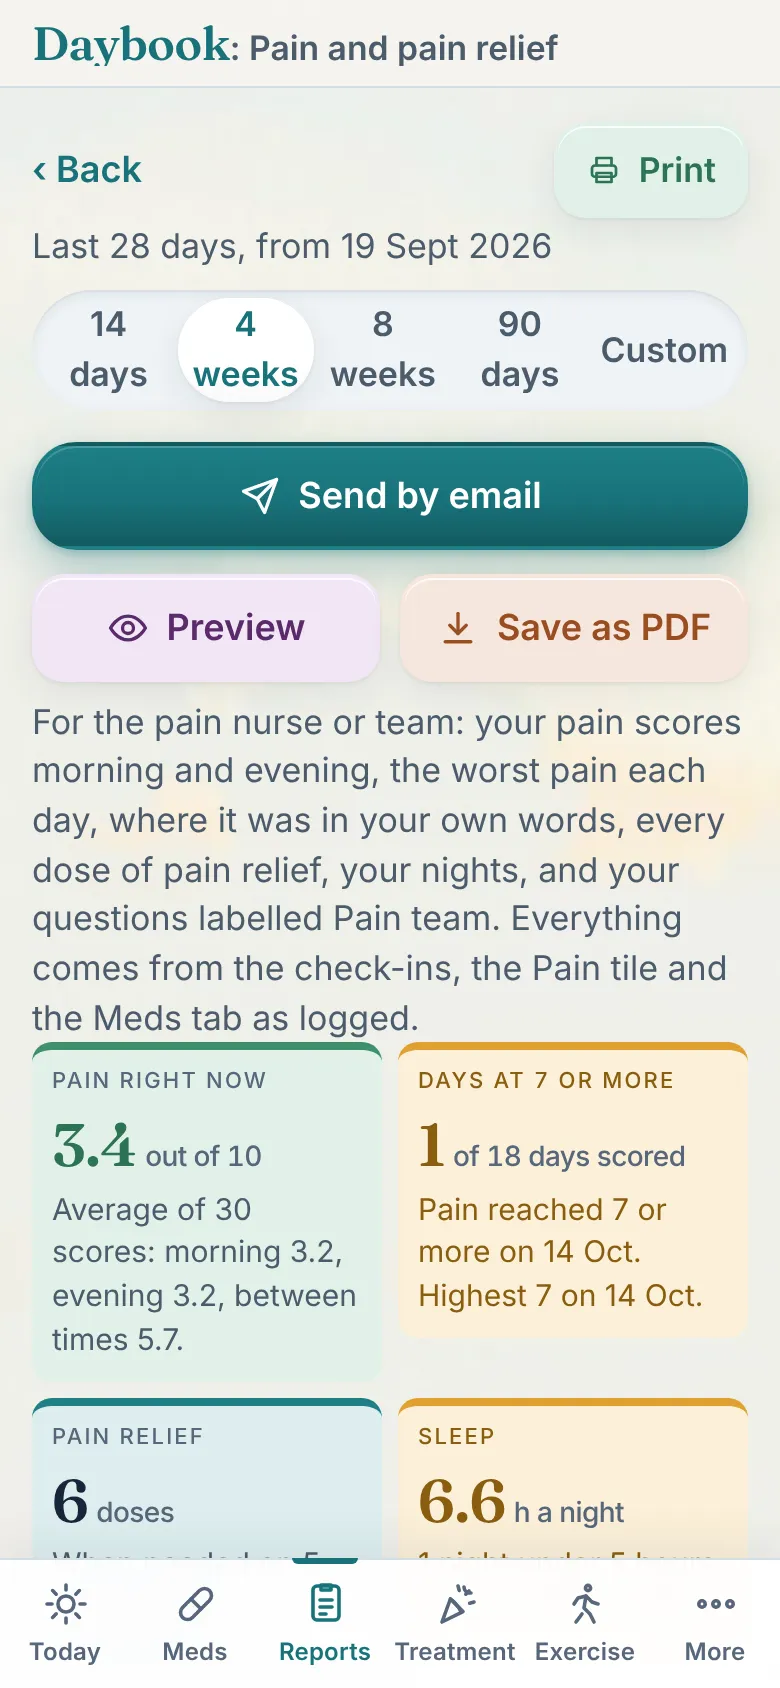
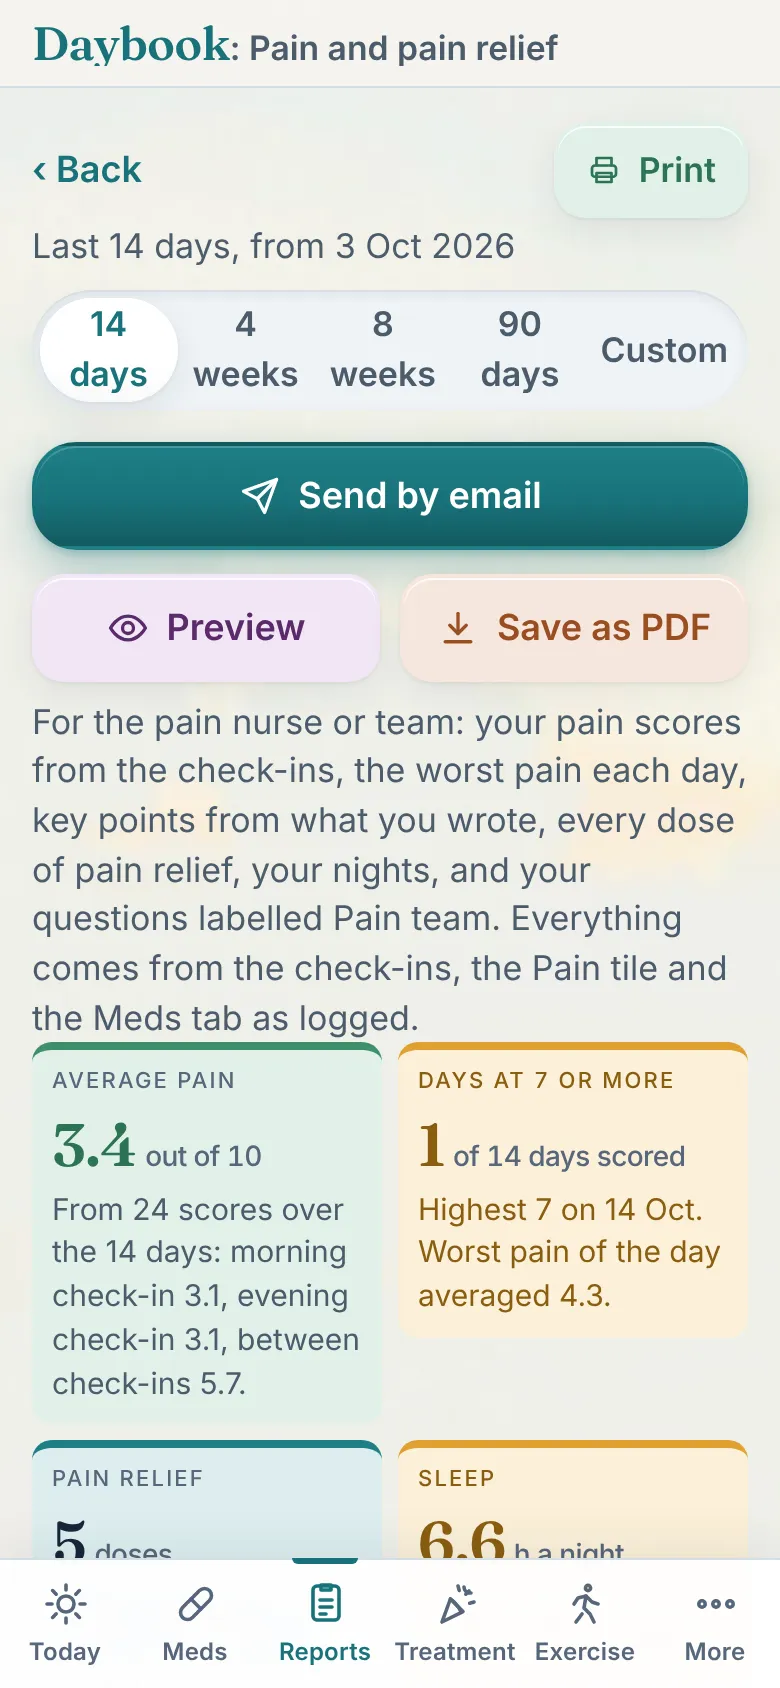
v270: the Guide's Pain frame retaken, caption for the new report
Chart.js served offline from npm for the Guide script; the Pain frame
shows the 14-day report with Average pain and its caption names the
key points and the top-up timing.

Claude-Session: https://claude.ai/code/session_019VY17MM1Pv81B6vJUTKu9b

diff --git a/tools/guide_shots.js b/tools/guide_shots.js
@@ -216,7 +216,7 @@ const QUALITY = 0.8;
   await tab('vitals');
   await shot('Beside Notes for the team: Pain and pain relief for the pain team, the Food diary for the dietitian, Mood and wellbeing for a therapist or GP.', '#rep-pain');
   await page.click('#rep-pain'); await page.waitForSelector('#view-pain:not([hidden])'); await settle(1500);
-  await shot('Pain and pain relief: the scores morning and evening, the worst each day, every dose of pain relief and your own words on where it was. Send, Preview and Save as PDF, as on every report.', '#pain-send');
+  await shot('Pain and pain relief: two weeks to start, the check-in scores, the worst each day, key points from what you wrote, every dose of pain relief and when the top-ups were taken. Send, Preview and Save as PDF, as on every report.', '#pain-send');
   await tab('vitals'); await page.click('#rep-food'); await page.waitForSelector('#view-food:not([hidden])'); await settle(1500);
   await shot('The Food diary: what was eaten and drunk each day, with the questions for the dietitian, on two pages.', '#food-send');
   await tab('vitals'); await page.click('#rep-mood'); await page.waitForSelector('#view-mood:not([hidden])'); await settle(1500);

diff --git a/index.html b/index.html
@@ -17,7 +17,7 @@
   <link rel="preconnect" href="https://fonts.googleapis.com">
   <link rel="preconnect" href="https://fonts.gstatic.com" crossorigin>
   <link href="https://fonts.googleapis.com/css2?family=Fraunces:opsz,wght@9..144,500;9..144,600;9..144,700&family=Inter:wght@400;500;600;700&display=swap" rel="stylesheet">
-  <link rel="stylesheet" href="styles.css?v=269">
+  <link rel="stylesheet" href="styles.css?v=270">
 </head>
 <body>
   <a class="skip-link" href="#main">Skip to content</a>
@@ -1219,6 +1219,6 @@
   </div>
 
   <script src="config.js"></script>
-  <script type="module" src="scripts.js?v=269"></script>
+  <script type="module" src="scripts.js?v=270"></script>
 </body>
 </html>

diff --git a/scripts.js b/scripts.js
@@ -13,7 +13,7 @@ import {
   query, where, orderBy, limit, onSnapshot, serverTimestamp, Timestamp, writeBatch, deleteField
 } from 'https://www.gstatic.com/firebasejs/10.12.2/firebase-firestore.js';
 
-const APP_VERSION = '269';
+const APP_VERSION = '270';
 /* The stage of the app (v132): 'Beta' until it is on the App Store and Google Play, then ''. Shown as a small pill on the
    opener and the four cover screens (never in the topbar, where it squeezed "Daybook: Treatment plan" off the end at 390px),
    after the version everywhere the version shows, and as one line on the App card and About

diff --git a/CLAUDE.md b/CLAUDE.md
@@ -24,7 +24,7 @@ Speech to text (since v48): `speakButton(textarea)` adds a big "Tap to speak" bu
 `LICENSE` (since v68): **copyright Mark 1 Apps Ltd** since v151 (company number 17510025, registered in England and Wales, 9 October 2026; Shelley and Mark directors). Mark Brown created Daybook and assigned the code, the names, the artwork, the domains and the Mark 1 Apps name and mark to the company by a Deed of Assignment dated 10 October 2026, signed by Mark, by Shelley for the company and before an independent witness, after a written resolution of both shareholders approving it; the originals are kept with the company papers, never in the repo. The LICENSE, README, the terms' copyright paragraph (dated 10 October 2026), About's licence line, the opener and the Settings card all read "Copyright 2026 Mark 1 Apps Ltd"; About still says Daybook was made by Mark Brown, which the deed allows (clause 4). The code is published to be read (the repository has to be public for GitHub Pages, and a web app hands its code to every browser anyway), not copied, hosted or built on; the name, strapline, artwork and the Mark 1 Apps mark are reserved too. Third-party parts keep their own licences (CoFID under the Open Government Licence, the CDN libraries and the fonts under theirs). The notice also appears on the Settings App card, in `README.md` and in the pitch footer. Copyright is automatic; the file removes the "I assumed it was open source" excuse. The LICENSE names "My Medical Daybook (Daybook)". A trade mark application for the full name is a roadmap item for when the app goes to the stores; a descriptive phrase like this is hard to register and hard for anyone else to register, which is part of why it was chosen.
 
 ## The Pain report signed off (22 October 2026)
-Mark, after v269: "I think it looks good." He sees his pain nurse on Tuesday 27 October and will bring back any advice; start there if he does. **Still to do:** retake the Guide's Pain frame (morereports, step 3, and its caption) and the website's report-pain pictures (`media/report-pain-{n}`); not done on 22 October because cdnjs (Chart.js, which the Guide script needs) is blocked on the build machine.
+Mark, after v269: "I think it looks good." He sees his pain nurse on Tuesday 27 October and will bring back any advice; start there if he does. The Guide's Pain frame (morereports-2) and its caption, and the website's two report-pain pictures, their alt text and the report's caption, were retaken in v270. **Offline, Chart.js comes from `npm pack chart.js@4.4.1`** (the npm registry is reachable when cdnjs is not); the scratchpad's `h/harness2.cjs` serves it, with the Firebase stub, an empty answer for the other cdnjs libraries and Google Fonts fetched with curl. Playwright tries the route added last first, so the Chart.js route must be added after the cdnjs catch-all, or the charts come out blank with "reading 'defaults'" page errors. The website pictures come from `site/painpics.cjs` (the cancer preview, "Sam Example", a Pain team question, the report's fitted pages at 1000px, saved as JPEG 85 and WebP 80).
 
 ## "Pain between check-ins" (v268, 22 October 2026)
 Mark asked what the "Logged in between" chart was, then chose its name: the fourth pain chart on the Pain report is **Pain between check-ins (0 to 10)** (the Pain tile's scores outside the morning and evening check-ins, the day's highest), and the same words are used in the key, the Average pain tile ("between check-ins 7.4"), the key points and the text sent to Daybook Assistant. Not "breakthrough pain": not every Pain tile score is a flare-up, and the report does not judge.
